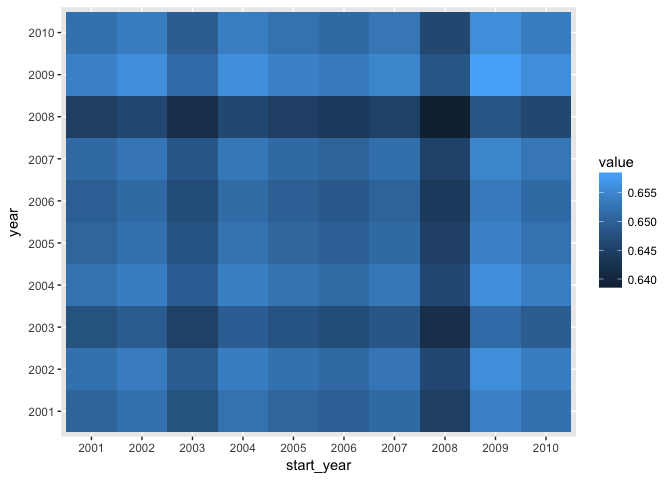
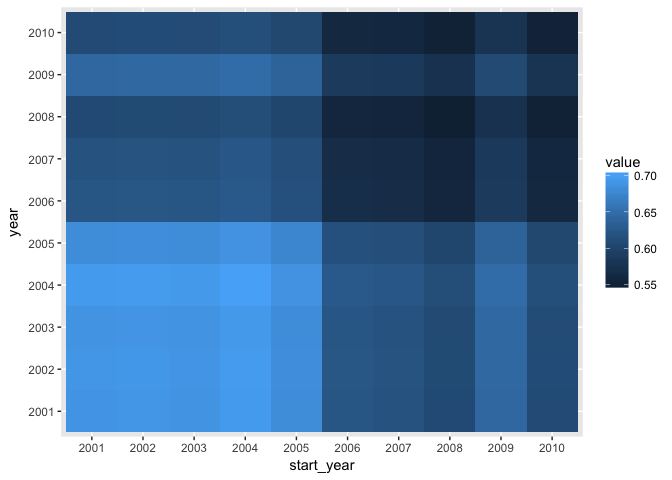
actual example of change

diff --git a/hedgerow.md b/hedgerow.md
@@ -76,87 +76,86 @@ as.data.frame(output) %>%
 # Simulated Data
 
 ``` r
-time <- c(rep(1,5), rep(4, 5))
+time <- c(rep(10,5), rep(20, 5))
 
 i = 1
 graphs <- lapply(time, function(i){ 
         
         x = netgen(n_modav = c(250, 25), 
-                  cutoffs = c(90, 10), 
-                  net_type = 1, 
-                  net_degree = 10,
-                  net_rewire = c(0.01,0.1),
-                  mod_probs = c(0.0, 0.0, 0.0, 0.0, 0.0, 0.0, 0.0))
+                  cutoffs = c(30, 10), 
+                  net_type = 41, # bi-partite nested
+                  net_degree = i,
+                  net_rewire = c(0.01,0.1))
 })
 ```
 
     ## 
-    ## module count = 2 
-    ## average degree = 9.896 
-    ## average module size = 125 
+    ## module count = 4 
+    ## average degree = 9.012 
+    ## average module size = 62.5 
+    ## number of components = 2 
+    ## size of largest component = 211
+
+    ## 
+    ## module count = 3 
+    ## average degree = 8.852 
+    ## average module size = 83.3333333333333 
     ## number of components = 1 
     ## size of largest component = 250
 
     ## 
-    ## module count = 2 
-    ## average degree = 9.76 
-    ## average module size = 125 
+    ## module count = 5 
+    ## average degree = 8.724 
+    ## average module size = 50 
+    ## number of components = 2 
+    ## size of largest component = 213
+
+    ## 
+    ## module count = 6 
+    ## average degree = 8.228 
+    ## average module size = 41.6666666666667 
+    ## number of components = 3 
+    ## size of largest component = 187
+
+    ## 
+    ## module count = 4 
+    ## average degree = 9.248 
+    ## average module size = 62.5 
     ## number of components = 1 
     ## size of largest component = 250
 
     ## 
-    ## module count = 2 
-    ## average degree = 10.096 
-    ## average module size = 125 
+    ## module count = 4 
+    ## average degree = 14.2 
+    ## average module size = 62.5 
+    ## number of components = 2 
+    ## size of largest component = 218
+
+    ## 
+    ## module count = 5 
+    ## average degree = 14.028 
+    ## average module size = 50 
     ## number of components = 1 
     ## size of largest component = 250
 
     ## 
-    ## module count = 2 
-    ## average degree = 9.736 
-    ## average module size = 125 
+    ## module count = 4 
+    ## average degree = 15.636 
+    ## average module size = 62.5 
     ## number of components = 1 
     ## size of largest component = 250
 
     ## 
-    ## module count = 2 
-    ## average degree = 9.868 
-    ## average module size = 125 
+    ## module count = 6 
+    ## average degree = 11.872 
+    ## average module size = 41.6666666666667 
     ## number of components = 1 
     ## size of largest component = 250
 
     ## 
-    ## module count = 2 
-    ## average degree = 9.96 
-    ## average module size = 125 
-    ## number of components = 1 
-    ## size of largest component = 250
-
-    ## 
-    ## module count = 2 
-    ## average degree = 9.832 
-    ## average module size = 125 
-    ## number of components = 1 
-    ## size of largest component = 250
-
-    ## 
-    ## module count = 2 
-    ## average degree = 10.364 
-    ## average module size = 125 
-    ## number of components = 1 
-    ## size of largest component = 250
-
-    ## 
-    ## module count = 2 
-    ## average degree = 9.584 
-    ## average module size = 125 
-    ## number of components = 1 
-    ## size of largest component = 250
-
-    ## 
-    ## module count = 2 
-    ## average degree = 9.752 
-    ## average module size = 125 
+    ## module count = 4 
+    ## average degree = 14.796 
+    ## average module size = 62.5 
     ## number of components = 1 
     ## size of largest component = 250
 
